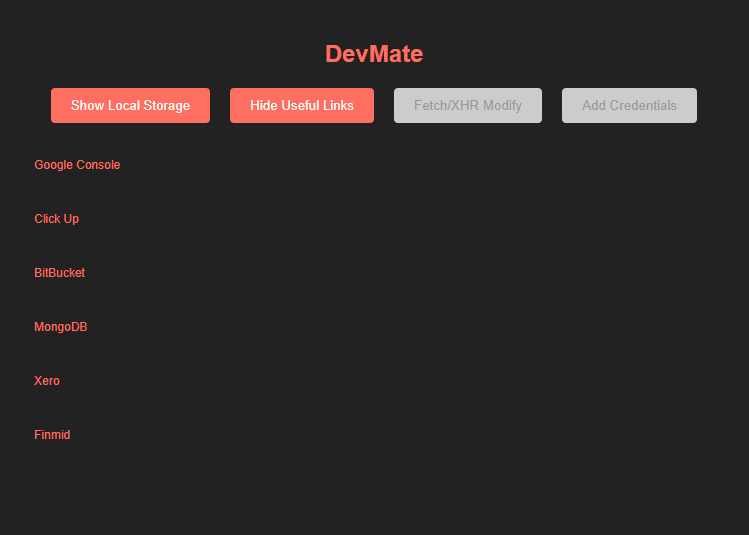
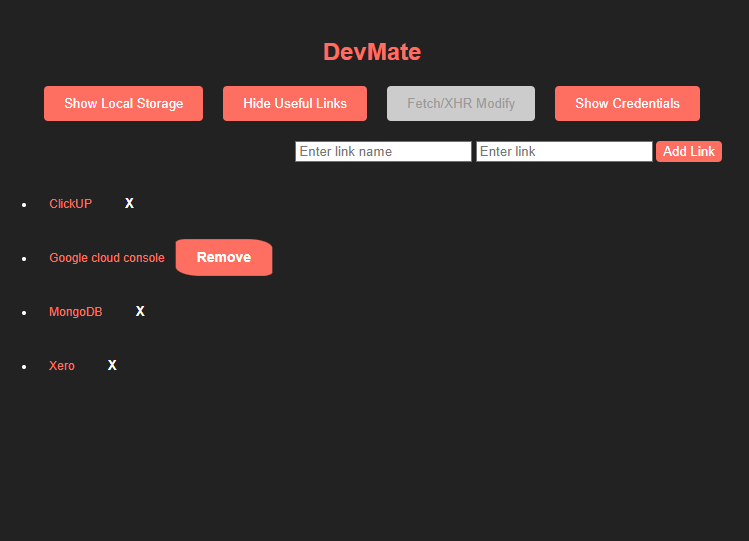
UPDATE: readme and new screenshots added

diff --git a/README.md b/README.md
@@ -2,9 +2,9 @@
 Multi-Browser extension for developers.
 - Multi browser support (Chrome Native)
 - Quick access to active tab's local storage and variable assignments.
-- Custom initialization for useful URLs.
+- Custom initialization for useful URLs using IndexedDB.
 - Manipulation over Fetches and requests. (Under development)
-- Customable credentials for quick access to URLs and Fetches.
+- Customable credentials for quick access to URLs and Fetches using IndexedDB
 
 # Upcoming Releases
 - Postman integration that allows user fetches and requests to insert specific workspace after manipulation.
@@ -21,3 +21,7 @@ Multi-Browser extension for developers.
 # Useful Links
 -Providing developers and users to add and modify their own URL map to access them fast and easy.
 ![preview](/assets/usefullinks.png)
+
+# Credentials
+-Saving and transferring credentials to save time and effort.
+![preview](/assets/credentials.png)
